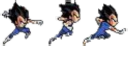
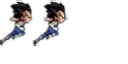
Sprite personajes
Sprite retocado para ajustar a las texturas de cada personaje

diff --git a/Proyecto Libgdx/core/src/com/mygdx/game/actores/Personaje.java b/Proyecto Libgdx/core/src/com/mygdx/game/actores/Personaje.java
@@ -48,7 +48,7 @@ public class Personaje extends Actor {
 
     private float animationTime,animationTime2;
 
-    private Boolean rafagazo, bKamehameha;
+    private Boolean rafagazo, bKamehameha, loop;
 
     public int activador, personajeNumero;
 
@@ -74,7 +74,7 @@ public class Personaje extends Actor {
 
         propiedadesFisicas();
 
-
+        loop = true;
 
     }
 
@@ -158,18 +158,24 @@ public class Personaje extends Actor {
                 ePrevio = eActual;
                 eActual = Estado.ENLASUPERFICIE;
 
-                tmp = TextureRegion.split(andando1,37,58);
 
-                if(personajeNumero==1){
-                    a = 4;
+
+                if(personajeNumero == 1){
+                    a = 3;
+                    loop = true;
+                    tmp = TextureRegion.split(andando1,37,58);
                 }
 
-                if(personajeNumero==2){
+                if(personajeNumero == 2){
                     a = 2;
+                    loop = false;
+                    tmp = TextureRegion.split(andando1,35,58);
                 }
 
-                if(personajeNumero==3){
+                if(personajeNumero == 3){
                     a = 2;
+                    loop = false;
+                    tmp = TextureRegion.split(andando1,37,58);
                 }
 
                 walkFrames = new TextureRegion[a];
@@ -178,13 +184,13 @@ public class Personaje extends Actor {
 
                 for(int i = 0; i<a;i++){
                     for(int j = 0; j<1;j++){
-                        walkFrames[index++] = tmp[j][a];
+                        walkFrames[index++] = tmp[j][i];
                     }
                 }
 
                 walkAnimation = new Animation(body.getLinearVelocity().x*(1/(7*body.getLinearVelocity().x)),walkFrames); // a mas número la animacion va mas lento , a 1 va muy lento a 0.001 muy rapido()
 
-                currentWalkFrame =  (TextureRegion)walkAnimation.getKeyFrame((elapsedTime),true);
+                currentWalkFrame =  (TextureRegion)walkAnimation.getKeyFrame((elapsedTime),loop);
 
                 sprite = new Sprite(currentWalkFrame);
 
@@ -195,18 +201,23 @@ public class Personaje extends Actor {
                 ePrevio = eActual;
                 eActual = Estado.ENLASUPERFICIE;
 
-                tmp = TextureRegion.split(andando2,37,58);
 
-                if(personajeNumero==1){
-                    a = 4;
+
+                if( personajeNumero == 1 ){
+                    a = 3;
+                    tmp = TextureRegion.split(andando2,37,58);
                 }
 
-                if(personajeNumero==2){
+                if( personajeNumero == 2 ){
                     a = 2;
+                    loop = false;
+                    tmp = TextureRegion.split(andando2,35,58);
                 }
 
-                if(personajeNumero==3){
+                if( personajeNumero == 3){
                     a = 2;
+                    loop = false;
+                    tmp = TextureRegion.split(andando2,39,58);
                 }
 
                 walkFrames = new TextureRegion[a];
@@ -215,13 +226,13 @@ public class Personaje extends Actor {
 
                 for(int i = 0; i<a;i++){
                     for(int j = 0; j<1;j++){
-                        walkFrames[index2++] = tmp[j][a];
+                        walkFrames[index2++] = tmp[j][i];
                     }
                 }
 
                 walkAnimation = new Animation(body.getLinearVelocity().x*(1/(7*body.getLinearVelocity().x)),walkFrames);
 
-                currentWalkFrame =  (TextureRegion)walkAnimation.getKeyFrame((elapsedTime),true);
+                currentWalkFrame =  (TextureRegion)walkAnimation.getKeyFrame((elapsedTime),loop);
 
                 sprite = new Sprite(currentWalkFrame);
 
